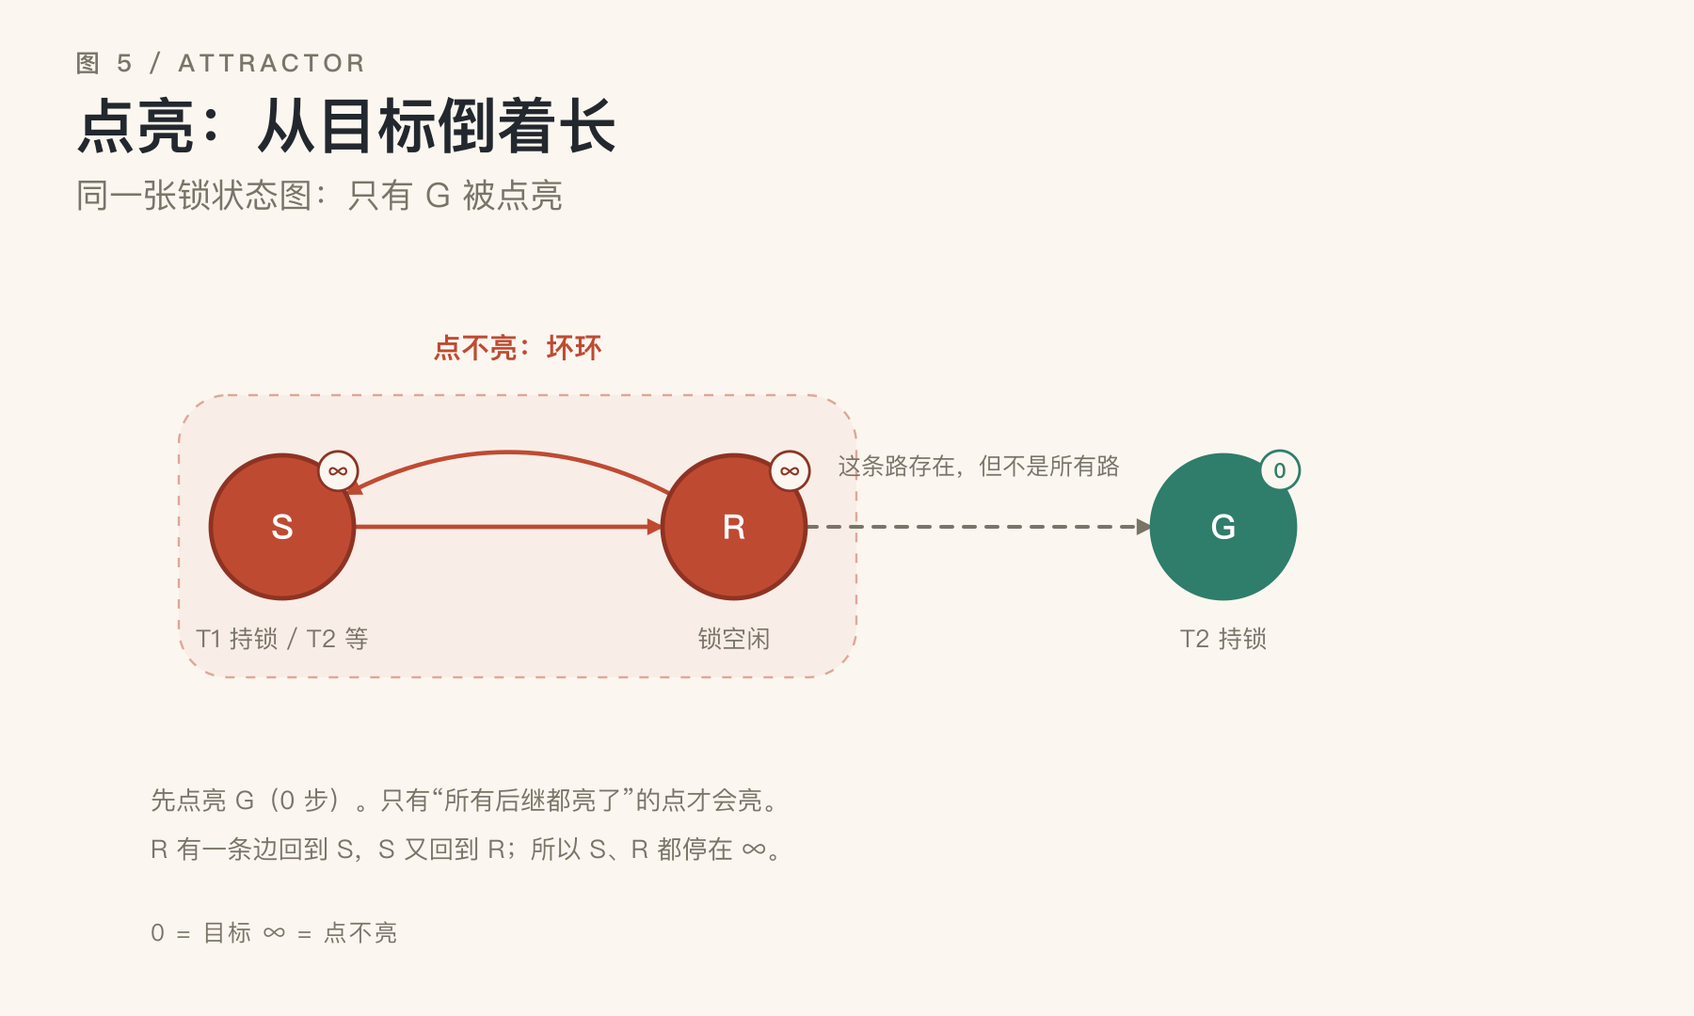
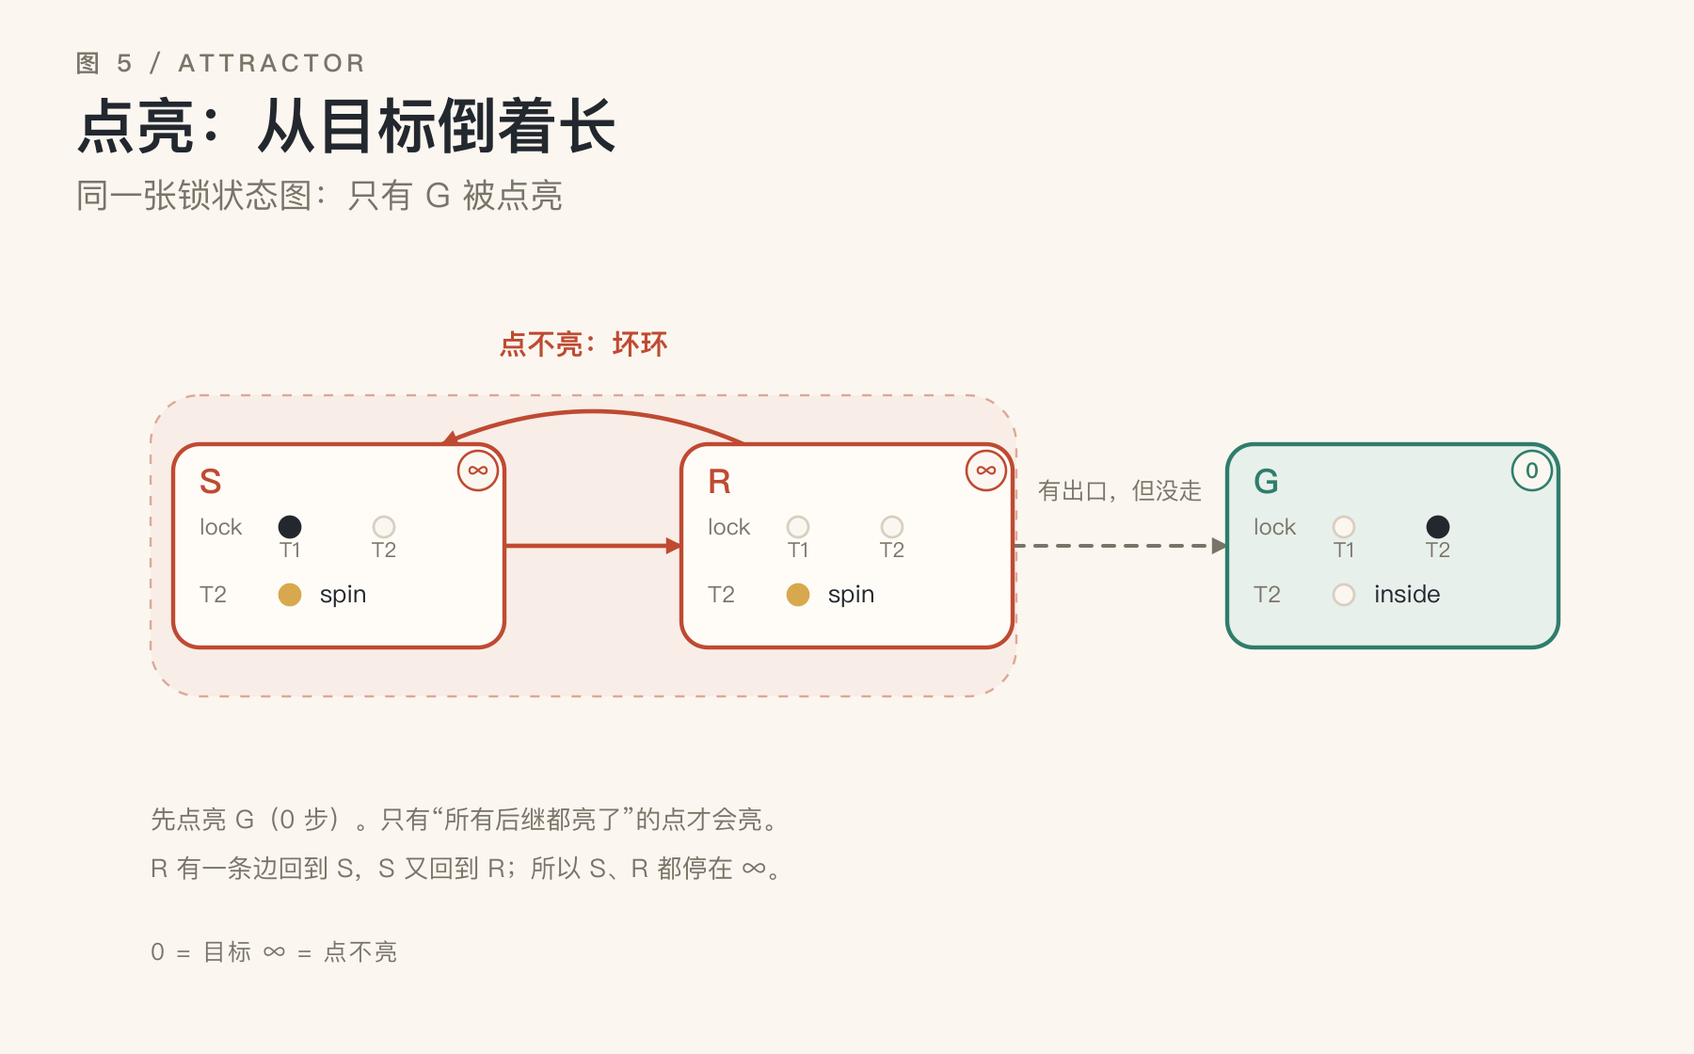
docs: 用锁状态图重做开篇与反例，补充 CTL 路径对照

diff --git a/preview.html b/preview.html
@@ -128,14 +128,14 @@ li{margin:.3em 0}
 <div class="kicker">形式化验证 · 科普</div>
 <h1 id="永远不报错的-bug">永远不报错的 Bug</h1>
 <p class="subtitle"><em>程序验证里的 liveness 与不动点：从“最终”到方程</em></p>
-<div class="meta">约 18 分钟 · 7 张图</div>
+<div class="meta">约 20 分钟 · 9 张图</div>
 <blockquote>
 <p>写给不熟悉形式化验证的软件工程师。<br />
 不需要预备知识。</p>
 </blockquote>
 <p>先看一个很小、但很典型的并发故障。</p>
-<p>两个线程，T1 和 T2，抢同一把锁。调度器总是先运行 T1；T1
-释放锁之后，又立刻把锁抢了回来。T2 一直在
+<p>两个线程，T1 和 T2，抢同一把 test-and-set 自旋锁。调度器总是先运行
+T1；T1 释放锁之后，又立刻把锁抢了回来。T2 一直在
 <code>while (!acquired) yield();</code> 里打转。日志里没有异常，CPU
 占用正常，T1 的活干得很好。唯一的症状是：T2
 负责的那部分任务，永远不会开始。</p>
@@ -147,6 +147,13 @@ li{margin:.3em 0}
 的循环总是快半拍，T2 就一直没被选中。这不是“T2
 太慢”：再给它多少时间，它都不会被选中。这也不是死锁：T2
 没有被卡住，它一直在运行——只是永远抢不到。</p>
+<figure>
+<img src="images/lock-state-graph.png" alt="锁的状态图" />
+<figcaption aria-hidden="true">锁的状态图</figcaption>
+</figure>
+<p class="caption"><em>小图：锁的状态图。每个状态里标出 <code>lock</code> 和
+<code>T2</code> 的取值；实心点 = 真，空心点 = 假。S/R
+之间可以无限打转，G 是 T2 拿到锁。</em></p>
 <p>这类问题有一个名字：<strong>liveness（活性）的违反</strong>。它不是“坏事发生了”，而是“好事一直没发生”。它不留下崩溃日志，只留下一个“看起来还在跑、但某部分永远没动静”的系统。</p>
 <p>同样的形状也出现在分布式系统里：心跳永远收不到、选主永远选不出来、事务永远停在“准备提交”。它们都不是“算错了”，而是“永远走不到下一步”。</p>
 <h2 id="一两种-bug崩溃与永远不完成">一、两种
@@ -486,6 +493,47 @@ finally（最终），<strong>G</strong> = globally（永远）。</p>
 <p>很多文章说“liveness
 是最小不动点”，这句话对，但省略了“好集合”三个字。真正重要的是：你是在从目标往外点亮，还是在从全集往里剥。两种算法算的是同一个答案。</p>
 </blockquote>
+<figure>
+<img src="images/ctl-paths.png" alt="EF 与 AF 的区别" />
+<figcaption aria-hidden="true">EF 与 AF 的区别</figcaption>
+</figure>
+<p class="caption"><em>小图：EF 只要求有一条路到 G；AF 要求所有路都到 G。右边那条路在
+S↔R 里打转，永远到不了 G，所以 AF G 不成立。</em></p>
+<p>这三种记号经常混着用，但它们看的东西不同：</p>
+<table>
+<thead>
+<tr class="header">
+<th>语言</th>
+<th>看什么</th>
+<th>文中记号</th>
+<th>用在哪</th>
+</tr>
+</thead>
+<tbody>
+<tr class="odd">
+<td>LTL</td>
+<td>一条时间线</td>
+<td>◇、□、□◇、◇□</td>
+<td>第二节、公平性</td>
+</tr>
+<tr class="even">
+<td>CTL</td>
+<td>一棵计算树（有分支）</td>
+<td>EF、AF、EG、AG</td>
+<td>这一节、算法</td>
+</tr>
+<tr class="odd">
+<td>μ-calculus</td>
+<td>方程/不动点</td>
+<td>μX、νX</td>
+<td>第五节、这一节</td>
+</tr>
+</tbody>
+</table>
+<p>它们不是三套互斥的记号，而是三种视角：LTL 看一条运行，CTL
+看一棵计算树，μ-calculus 看方程。CTL 和 LTL 都可以翻译成
+μ-calculus；CTL*
+则把路径量词和时序操作符自由组合。本文用到哪一副眼镜，就在哪一段说清楚。</p>
 <h2 id="七点亮从目标倒着长">七、点亮：从目标倒着长</h2>
 <p>现在回到最初的问题：怎样证明“所有路径最终都会到达目标”？把开头的锁例子画成状态图（图
 5）：S 是“T1 持锁、T2 等待”，R 是“锁空闲”，G 是“T2 持锁”。目标就是
@@ -560,8 +608,8 @@ liveness 都可以被一个恶意的调度器破坏。</p>
 读作“最终永远”），这看起来像循环论证：用一个 liveness 假设去证明另一个
 liveness。但它不是循环——公平性是对环境的假设，不是对程序的结论。你证明的是一个条件命题：在公平的调度下，程序最终会进展。这个“在……下”不能省。</p>
 <p>这也是分布式系统里一个著名结论的日常版本：FLP
-告诉我们，在完全异步、允许一个进程崩溃的模型里，确定性共识无法保证终止（liveness）——安全性可以保证，但“最终达成一致”不行。工程上的对策不是“更努力地证明”，而是加时间假设：超时、心跳、部分同步。用时间换
-liveness，这是分布式系统最熟悉的交易。</p>
+的结论是，在一个完全异步、允许一个进程崩溃的系统里，确定性共识协议可以保证一致性（不会有两个节点决定不同的值），但无法保证终止（每个节点最终都会做出决定）。换句话说，它不是“会算错”，而是“可能永远算不完”。工程上的对策不是“更努力地证明”，而是加时间假设：超时、心跳、部分同步。用时间换
+liveness，这是分布式系统最熟悉的权衡。</p>
 <p>公平性假设太强，会掩盖真正的饥饿
 bug；太弱，又证不出东西。所以写规格时，最好把假设显式写出来：“在假设 F
 下，最终 P”。如果你说不出 F 是什么，你拥有的不是定理，只是希望。</p>

diff --git a/figures/build.py b/figures/build.py
@@ -152,6 +152,32 @@ def title(s, t, sub=None):
         s.text(40, 110, sub, size=18, fill=MUTED)
 
 
+# ---------------------------------------------------------------- lock state box
+def lock_box(s, cx, cy, name, lock, t2, stroke=RED, title_fill=RED,
+             fill=PANEL, rank=None):
+    w, h = 176, 108
+    x, y = cx - w / 2, cy - h / 2
+    s.rect(x, y, w, h, rx=14, fill=fill, stroke=stroke, sw=2.2)
+    s.text(x + 14, y + 26, name, size=18, fill=title_fill, weight="700")
+    s.text(x + 14, y + 48, "lock", size=12, fill=MUTED)
+    for lab, dx in (("T1", 62), ("T2", 112)):
+        ox, oy = x + dx, y + 44
+        owned = (lock == lab)
+        s.circle(ox, oy, 5.5, fill=INK if owned else PAPER,
+                 stroke=INK if owned else LINE, sw=1.4)
+        s.text(ox, y + 60, lab, size=11, fill=MUTED, anchor="middle")
+    s.text(x + 14, y + 84, "T2", size=12, fill=MUTED)
+    spin = (t2 == "spin")
+    s.circle(x + 62, y + 80, 5.5, fill=AMBER if spin else PAPER,
+             stroke=AMBER if spin else LINE, sw=1.4)
+    s.text(x + 78, y + 84, "spin" if spin else "inside", size=13, fill=INK)
+    if rank is not None:
+        bx, by = x + w - 14, y + 14
+        s.circle(bx, by, 10.5, fill=PAPER, stroke=stroke, sw=1.3)
+        s.text(bx, by + 4, rank, size=11.5, fill=title_fill,
+               anchor="middle", weight="600")
+
+
 # ---------------------------------------------------------------- figure 1
 def fig1():
     h = 500
@@ -210,39 +236,68 @@ def fig1():
 
 
 # ---------------------------------------------------------------- figure 2
+def fig_open():
+    h = 440
+    s = SVG(W, h)
+    kicker(s, "MUTEX / STATE GRAPH")
+    title(s, "锁的状态图", "T1 和 T2 抢一把 test-and-set 自旋锁")
+
+    S, R, G = (170, 250), (420, 250), (700, 250)
+    s.rect(70, 175, 460, 155, rx=24, fill=RED, stroke="none", opacity=0.045)
+    s.rect(70, 175, 460, 155, rx=24, fill="none", stroke=RED, sw=1.2,
+           dash="5 6", opacity=0.4)
+    s.text(300, 160, "T2 永远等下去", size=14, fill=RED, anchor="middle", weight="600")
+
+    s.arrow((S[0] + 88, S[1]), (R[0] - 88, R[1]), color=INK, sw=2.2)
+    s.arrow((R[0] - 55, R[1] - 54), (S[0] + 55, S[1] - 54),
+            curve=35, color=INK, sw=2.2)
+    s.arrow((R[0] + 88, R[1]), (G[0] - 88, G[1]), color=GREEN, sw=2.2, dash="6 6")
+    s.text(295, 220, "T1 抢到", size=13.5, fill=INK, anchor="middle", weight="600")
+    s.text(295, 270, "T1 释放", size=13.5, fill=MUTED, anchor="middle")
+    s.text(560, 270, "T2 抢到", size=13.5, fill=GREEN, anchor="middle", weight="600")
+
+    lock_box(s, *S, "S", "T1", "spin")
+    lock_box(s, *R, "R", "free", "spin")
+    lock_box(s, *G, "G", "T2", "inside", stroke=GREEN, title_fill=GREEN,
+             fill="#E8F0EC")
+
+    s.text(70, 390, "● = 真（持有 / 等待）    ○ = 假（空闲 / 运行）",
+           size=12.5, fill=MUTED)
+    s.save("lock-state-graph")
+
+
 def fig2():
-    h = 540
+    h = 560
     s = SVG(W, h)
     kicker(s, "图 3 / LASSO")
     title(s, "反例的形状：一个环",
-          "把开头的锁例子画出来：S 和 R 转来转去，G 永远到不了")
+          "回到开头的锁状态图：S 和 R 转来转去，G 永远到不了")
 
-    S, R, G, r = (180, 280), (420, 280), (680, 280), 38
-    # bad cycle
-    s.rect(125, 210, 360, 150, rx=26, fill=RED, stroke="none", opacity=0.05)
-    s.rect(125, 210, 360, 150, rx=26, fill="none", stroke=RED, sw=1.2,
+    S, R, G = (180, 290), (450, 290), (740, 290)
+    s.rect(80, 195, 460, 175, rx=26, fill=RED, stroke="none", opacity=0.05)
+    s.rect(80, 195, 460, 175, rx=26, fill="none", stroke=RED, sw=1.2,
            dash="5 6", opacity=0.45)
-    s.text(305, 190, "坏环", size=15, fill=RED, anchor="middle", weight="700")
+    s.text(310, 173, "坏环", size=15, fill=RED, anchor="middle", weight="700")
 
-    s.arrow(S, R, r1=r, r2=r, color=RED, sw=2.3)
-    s.arrow(R, S, curve=62, r1=r, r2=r, color=RED, sw=2.3)
-    s.arrow(R, G, r1=r, r2=r, color=GREEN, sw=2.3, dash="6 6")
+    s.arrow((S[0] + 88, S[1]), (R[0] - 88, R[1]), color=RED, sw=2.3)
+    s.arrow((R[0] - 55, R[1] - 54), (S[0] + 55, S[1] - 54),
+            curve=35, color=RED, sw=2.3)
+    s.arrow((R[0] + 88, R[1]), (G[0] - 88, G[1]), color=GREEN, sw=2.3, dash="6 6")
 
-    s.text(300, 228, "T1 又抢到", size=13, fill=RED, anchor="middle", weight="600")
-    s.text(300, 305, "T1 释放锁", size=13, fill=MUTED, anchor="middle")
-    s.text(550, 252, "T2 抢到（但没走）", size=13, fill=GREEN, anchor="middle", weight="600")
+    s.text(315, 214, "T1 又抢到", size=12.5, fill=RED, anchor="middle", weight="600")
+    s.text(315, 310, "T1 释放", size=13, fill=MUTED, anchor="middle")
+    s.text(595, 265, "T2 抢到（没走）", size=12.5, fill=GREEN,
+           anchor="middle", weight="600")
 
-    s.node(*S, r, PAPER, RED, "S", label_fill=INK, size=18, sw=2.4)
-    s.node(*R, r, PAPER, RED, "R", label_fill=INK, size=18, sw=2.4)
-    s.node(*G, r, GREEN, GREEN, "G", size=18, sw=2.4)
-    s.text(S[0], S[1] + 64, "T1 持锁 / T2 等", size=13, fill=MUTED, anchor="middle")
-    s.text(R[0], R[1] + 64, "锁空闲", size=13, fill=MUTED, anchor="middle")
-    s.text(G[0], G[1] + 64, "T2 持锁", size=13, fill=MUTED, anchor="middle")
-    s.text(113, 286, "start", size=13, fill=RED, anchor="end", weight="600")
+    lock_box(s, *S, "S", "T1", "spin")
+    lock_box(s, *R, "R", "free", "spin")
+    lock_box(s, *G, "G", "T2", "inside", stroke=GREEN, title_fill=GREEN,
+             fill="#E8F0EC")
+    s.text(78, 296, "start", size=12.5, fill=RED, anchor="end", weight="600")
 
-    s.text(80, 432, "一条永远不到 G 的执行", size=14, fill=MUTED)
-    s.text(80, 468, "σ = (S R)^ω", size=22, fill=INK, family=MONO)
-    s.text(400, 468, "G 有入边；但这条执行永远不选它", size=13.5, fill=MUTED)
+    s.text(80, 450, "一条永远不到 G 的执行", size=14, fill=MUTED)
+    s.text(80, 486, "σ = (S R)^ω", size=22, fill=INK, family=MONO)
+    s.text(420, 486, "G 有入边；但这条执行永远不选它", size=13.5, fill=MUTED)
     s.save("03-lasso")
 
 
@@ -302,37 +357,35 @@ def fig3():
 
 # ---------------------------------------------------------------- figure 4
 def fig4():
-    h = 540
+    h = 560
     s = SVG(W, h)
     kicker(s, "图 5 / ATTRACTOR")
     title(s, "点亮：从目标倒着长",
           "同一张锁状态图：只有 G 被点亮")
 
-    S, R, G, r = (150, 280), (390, 280), (650, 280), 38
-    s.rect(95, 210, 360, 150, rx=26, fill=RED, stroke="none", opacity=0.05)
-    s.rect(95, 210, 360, 150, rx=26, fill="none", stroke=RED, sw=1.2,
+    S, R, G = (180, 290), (450, 290), (740, 290)
+    s.rect(80, 210, 460, 160, rx=26, fill=RED, stroke="none", opacity=0.05)
+    s.rect(80, 210, 460, 160, rx=26, fill="none", stroke=RED, sw=1.2,
            dash="5 6", opacity=0.45)
-    s.text(275, 190, "点不亮：坏环", size=15, fill=RED, anchor="middle", weight="700")
+    s.text(310, 188, "点不亮：坏环", size=15, fill=RED, anchor="middle", weight="700")
 
-    s.arrow(S, R, r1=r, r2=r, color=RED, sw=2.3)
-    s.arrow(R, S, curve=62, r1=r, r2=r, color=RED, sw=2.3)
-    s.arrow(R, G, r1=r, r2=r, color=MUTED, sw=2.0, dash="6 6")
-    s.text(520, 252, "这条路存在，但不是所有路", size=12.5, fill=MUTED,
+    s.arrow((S[0] + 88, S[1]), (R[0] - 88, R[1]), color=RED, sw=2.3)
+    s.arrow((R[0] - 55, R[1] - 54), (S[0] + 55, S[1] - 54),
+            curve=35, color=RED, sw=2.3)
+    s.arrow((R[0] + 88, R[1]), (G[0] - 88, G[1]), color=MUTED, sw=2.0, dash="6 6")
+    s.text(595, 265, "有出口，但没走", size=12.5, fill=MUTED,
            anchor="middle")
 
-    s.node(*S, r, RED, RED_DARK, "S", size=18, sw=2.4, rank="∞")
-    s.node(*R, r, RED, RED_DARK, "R", size=18, sw=2.4, rank="∞")
-    s.node(*G, r, GREEN, GREEN, "G", size=18, sw=2.4, rank="0",
-           rank_pos=(G[0] + 30, G[1] - 30))
-    s.text(S[0], S[1] + 64, "T1 持锁 / T2 等", size=13, fill=MUTED, anchor="middle")
-    s.text(R[0], R[1] + 64, "锁空闲", size=13, fill=MUTED, anchor="middle")
-    s.text(G[0], G[1] + 64, "T2 持锁", size=13, fill=MUTED, anchor="middle")
+    lock_box(s, *S, "S", "T1", "spin", rank="∞")
+    lock_box(s, *R, "R", "free", "spin", rank="∞")
+    lock_box(s, *G, "G", "T2", "inside", stroke=GREEN, title_fill=GREEN,
+             fill="#E8F0EC", rank="0")
 
-    s.text(80, 430, "先点亮 G（0 步）。只有“所有后继都亮了”的点才会亮。",
+    s.text(80, 440, "先点亮 G（0 步）。只有“所有后继都亮了”的点才会亮。",
            size=13.5, fill=MUTED)
-    s.text(80, 456, "R 有一条边回到 S，S 又回到 R；所以 S、R 都停在 ∞。",
+    s.text(80, 466, "R 有一条边回到 S，S 又回到 R；所以 S、R 都停在 ∞。",
            size=13.5, fill=MUTED)
-    s.text(80, 500, "0 = 目标    ∞ = 点不亮", size=12.5, fill=MUTED, spacing=1)
+    s.text(80, 510, "0 = 目标    ∞ = 点不亮", size=12.5, fill=MUTED, spacing=1)
     s.save("05-peeling")
 
 
@@ -531,6 +584,49 @@ def fig_safety():
     s.save("safety-example")
 
 
+
+
+# ---------------------------------------------------------------- CTL paths
+def fig_ctl():
+    h = 400
+    s = SVG(W, h)
+    kicker(s, "CTL / PATHS")
+    title(s, "EF 与 AF：一条路，还是所有路",
+          "同一个状态图，换一个路径量词，答案就不同")
+
+    def panel(x0, mode):
+        s.text(x0 + 20, 162, mode, size=20, fill=INK, weight="700")
+        ok = (mode == "EF G")
+        badge = (GREEN, "✓ 成立") if ok else (RED, "✗ 不成立")
+        s.text(x0 + 330, 162, badge[1], size=14, fill=badge[0],
+               anchor="end", weight="700")
+
+        R = (x0 + 195, 215)
+        Gp = (x0 + 105, 305)
+        Sp = (x0 + 285, 305)
+        s.arrow((R[0] - 12, R[1] + 16), (Gp[0] + 12, Gp[1] - 16),
+                color=GREEN, sw=2.2)
+        s.arrow((R[0] + 12, R[1] + 16), (Sp[0] - 12, Sp[1] - 16),
+                color=(MUTED if ok else RED), sw=2.2)
+        s.arrow((Sp[0] + 6, Sp[1] - 16), (R[0] + 20, R[1] + 8),
+                curve=34, color=(MUTED if ok else RED), sw=1.6, dash="4 5")
+        s.text(x0 + 292, 258, "…", size=18, fill=(MUTED if ok else RED))
+
+        s.circle(*R, 22, fill=PAPER, stroke=INK, sw=2)
+        s.text(R[0], R[1] + 6, "R", size=16, fill=INK, anchor="middle", weight="600")
+        s.circle(*Gp, 22, fill=GREEN, stroke=GREEN, sw=2)
+        s.text(Gp[0], Gp[1] + 6, "G", size=16, fill="#FFFFFF", anchor="middle", weight="600")
+        s.circle(*Sp, 22, fill=PAPER, stroke=(MUTED if ok else RED), sw=2)
+        s.text(Sp[0], Sp[1] + 6, "S", size=16, fill=INK, anchor="middle", weight="600")
+
+        note = "存在一条路到 G" if ok else "有一条路永远到不了 G"
+        s.text(x0 + 20, 360, note, size=14, fill=badge[0])
+
+    panel(40, "EF G")
+    panel(470, "AF G")
+    s.save("ctl-paths")
+
+
 if __name__ == "__main__":
-    for f in (fig1, fig_temporal, fig2, fig3, fig_safety, fig4, fig5, cover):
+    for f in (fig_open, fig1, fig_temporal, fig2, fig3, fig_safety, fig_ctl, fig4, fig5, cover):
         f()

diff --git a/figures/make_preview.py b/figures/make_preview.py
@@ -13,7 +13,7 @@ frag = frag_path.read_text(encoding="utf-8")
 # subtitle -> styled subtitle + meta line (the first <p><em> after the h1)
 frag = re.sub(
     r'(</h1>\s*)<p><em>(.*?)</em></p>',
-    r'\1<p class="subtitle"><em>\2</em></p>\n<div class="meta">约 18 分钟 · 7 张图</div>',
+    r'\1<p class="subtitle"><em>\2</em></p>\n<div class="meta">约 20 分钟 · 9 张图</div>',
     frag, count=1, flags=re.S)
 
 # figure captions

diff --git a/liveness-and-fixed-points.md b/liveness-and-fixed-points.md
@@ -7,11 +7,15 @@
 
 先看一个很小、但很典型的并发故障。
 
-两个线程，T1 和 T2，抢同一把锁。调度器总是先运行 T1；T1 释放锁之后，又立刻把锁抢了回来。T2 一直在 `while (!acquired) yield();` 里打转。日志里没有异常，CPU 占用正常，T1 的活干得很好。唯一的症状是：T2 负责的那部分任务，永远不会开始。
+两个线程，T1 和 T2，抢同一把 test-and-set 自旋锁。调度器总是先运行 T1；T1 释放锁之后，又立刻把锁抢了回来。T2 一直在 `while (!acquired) yield();` 里打转。日志里没有异常，CPU 占用正常，T1 的活干得很好。唯一的症状是：T2 负责的那部分任务，永远不会开始。
 
 你很难说清“哪一行代码错了”。T2 的等待逻辑是对的，锁的互斥也没问题；它们只是组合出了一条“T2 永远轮不到”的执行路径。
 
 压测跑了十万次，T2 每次都拿到了锁——因为测试环境的调度恰好足够公平。线上那台机器上，T1 的循环总是快半拍，T2 就一直没被选中。这不是“T2 太慢”：再给它多少时间，它都不会被选中。这也不是死锁：T2 没有被卡住，它一直在运行——只是永远抢不到。
+
+![锁的状态图](images/lock-state-graph.png)
+
+*小图：锁的状态图。每个状态里标出 `lock` 和 `T2` 的取值；实心点 = 真，空心点 = 假。S/R 之间可以无限打转，G 是 T2 拿到锁。*
 
 这类问题有一个名字：**liveness（活性）的违反**。它不是“坏事发生了”，而是“好事一直没发生”。它不留下崩溃日志，只留下一个“看起来还在跑、但某部分永远没动静”的系统。
 
@@ -286,6 +290,20 @@ Y₀ = S      Y₁ = g(Y₀)      Y₂ = g(Y₁)      …
 >
 > 很多文章说“liveness 是最小不动点”，这句话对，但省略了“好集合”三个字。真正重要的是：你是在从目标往外点亮，还是在从全集往里剥。两种算法算的是同一个答案。
 
+![EF 与 AF 的区别](images/ctl-paths.png)
+
+*小图：EF 只要求有一条路到 G；AF 要求所有路都到 G。右边那条路在 S↔R 里打转，永远到不了 G，所以 AF G 不成立。*
+
+这三种记号经常混着用，但它们看的东西不同：
+
+| 语言 | 看什么 | 文中记号 | 用在哪 |
+|---|---|---|---|
+| LTL | 一条时间线 | ◇、□、□◇、◇□ | 第二节、公平性 |
+| CTL | 一棵计算树（有分支） | EF、AF、EG、AG | 这一节、算法 |
+| μ-calculus | 方程/不动点 | μX、νX | 第五节、这一节 |
+
+它们不是三套互斥的记号，而是三种视角：LTL 看一条运行，CTL 看一棵计算树，μ-calculus 看方程。CTL 和 LTL 都可以翻译成 μ-calculus；CTL* 则把路径量词和时序操作符自由组合。本文用到哪一副眼镜，就在哪一段说清楚。
+
 ## 七、点亮：从目标倒着长
 
 现在回到最初的问题：怎样证明“所有路径最终都会到达目标”？把开头的锁例子画成状态图（图 5）：S 是“T1 持锁、T2 等待”，R 是“锁空闲”，G 是“T2 持锁”。目标就是 G。
@@ -350,7 +368,7 @@ until X 不再变化
 
 公平性本身也是用 liveness 的语言写的（**□◇** 读作“无限多次”，**◇□** 读作“最终永远”），这看起来像循环论证：用一个 liveness 假设去证明另一个 liveness。但它不是循环——公平性是对环境的假设，不是对程序的结论。你证明的是一个条件命题：在公平的调度下，程序最终会进展。这个“在……下”不能省。
 
-这也是分布式系统里一个著名结论的日常版本：FLP 告诉我们，在完全异步、允许一个进程崩溃的模型里，确定性共识无法保证终止（liveness）——安全性可以保证，但“最终达成一致”不行。工程上的对策不是“更努力地证明”，而是加时间假设：超时、心跳、部分同步。用时间换 liveness，这是分布式系统最熟悉的交易。
+这也是分布式系统里一个著名结论的日常版本：FLP 的结论是，在一个完全异步、允许一个进程崩溃的系统里，确定性共识协议可以保证一致性（不会有两个节点决定不同的值），但无法保证终止（每个节点最终都会做出决定）。换句话说，它不是“会算错”，而是“可能永远算不完”。工程上的对策不是“更努力地证明”，而是加时间假设：超时、心跳、部分同步。用时间换 liveness，这是分布式系统最熟悉的权衡。
 
 公平性假设太强，会掩盖真正的饥饿 bug；太弱，又证不出东西。所以写规格时，最好把假设显式写出来：“在假设 F 下，最终 P”。如果你说不出 F 是什么，你拥有的不是定理，只是希望。
 
